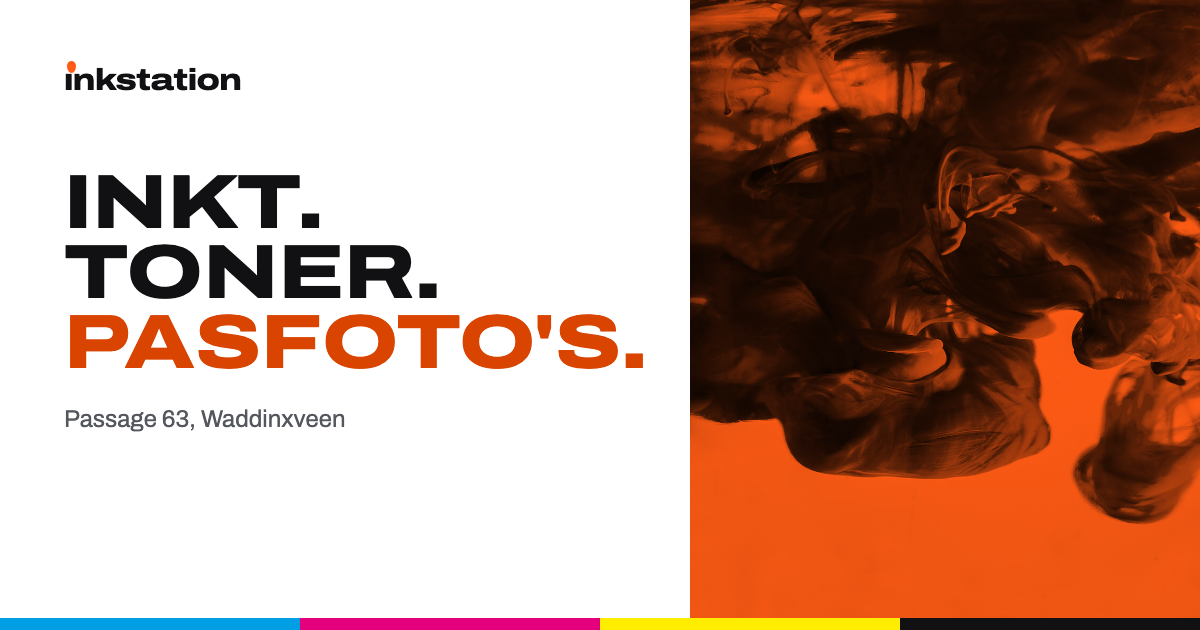
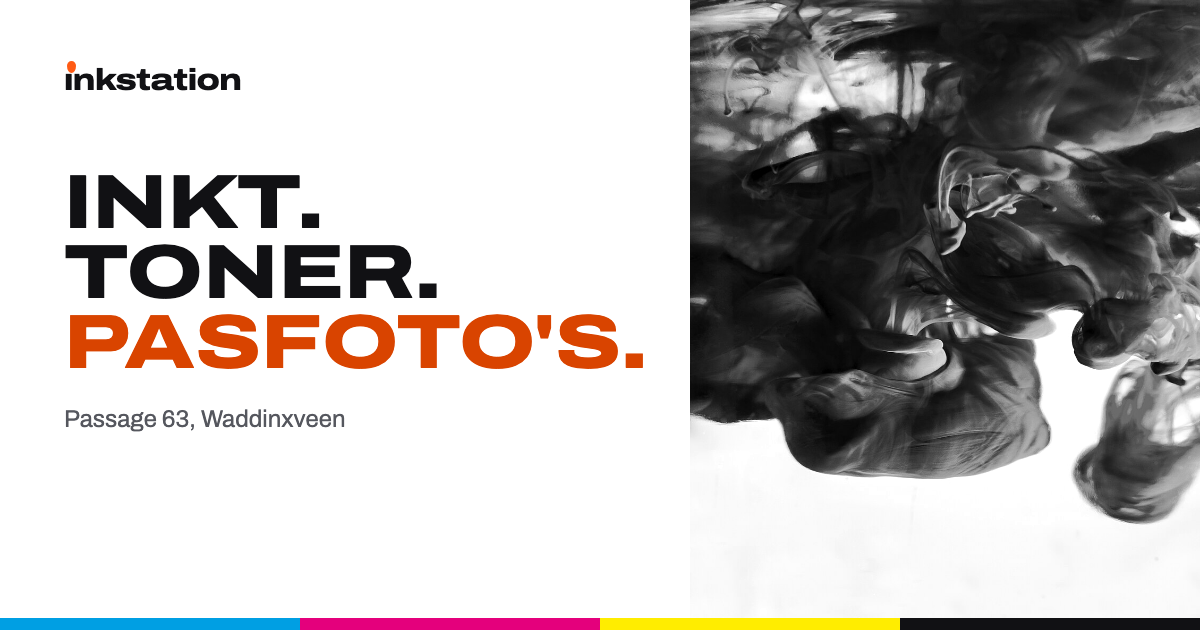
Inkstation: all photos black and white

diff --git a/inkstation/styles.css b/inkstation/styles.css
@@ -135,20 +135,17 @@ h3 { margin: 0 0 8px; font-size: var(--fs-h3); line-height: 1.2; font-weight: 70
 }
 .hero .lead { margin-bottom: 36px; color: var(--ink-2); }
 
-.hero-panel { position: relative; margin: 0; background: var(--accent); overflow: hidden; }
-/* Accent duotone in one element: the photo is made grey (luminosity over white), then multiplied with the accent.
-   background-blend-mode stays inside the element, so Safari renders it the same as Chrome. */
+.hero-panel { position: relative; margin: 0; background: var(--paper); overflow: hidden; }
+/* Photos are black and white: the colour comes from the type, buttons and blocks, not from tinted photos.
+   A plain filter on a background image (no blend modes) renders the same in Safari and Chrome. */
 .duotone {
   position: absolute; inset: 0;
   background-color: var(--paper);
-  background-image: linear-gradient(var(--accent), var(--accent)), var(--photo);
+  background-image: var(--photo);
   background-size: cover; background-position: center;
-  background-blend-mode: multiply, luminosity;
+  filter: grayscale(1) contrast(1.1);
 }
-/* Camera, wheel and film reel stay black and white: just the photo, made grey with a plain filter (no blend, so Safari-safe) */
-.duotone-camera, .duotone-wheel, .duotone-reel { background-image: var(--photo); background-blend-mode: normal; filter: grayscale(1) contrast(1.1); }
 .duotone-camera { background-position: 50% 45%; }
-#pasfoto .panel-media, #rijbewijs .panel-media, #video .panel-media { background: var(--paper); }
 
 .ticket { position: absolute; left: 32px; right: 32px; bottom: 32px; max-width: 340px; background: var(--paper); padding: 20px 24px; display: grid; gap: 6px; }
 .status { font-weight: 700; display: flex; align-items: flex-start; gap: 10px; }
@@ -192,7 +189,7 @@ h2.panel-title { font-size: clamp(28px, calc(97cqi / var(--em, 7.6)), 132px); ma
   text-underline-offset: -.14em; text-decoration-skip-ink: none;
 }
 .panel .lead { color: var(--ink-2); margin-bottom: 36px; }
-.panel-media { position: relative; margin: 0; background: var(--accent); overflow: hidden; }
+.panel-media { position: relative; margin: 0; background: var(--paper); overflow: hidden; }
 .duotone-wheel { background-position: 35% 50%; }
 .duotone-reel { background-position: 50% 50%; }
 #inkt .duotone { background-position: 24% 50%; }

diff --git a/inkstation/index.html b/inkstation/index.html
@@ -27,7 +27,7 @@
     document.documentElement.setAttribute("data-kleur", k || "oranje");
   })();
 </script>
-<link rel="stylesheet" href="styles.css?v=22">
+<link rel="stylesheet" href="styles.css?v=23">
 <script src="script.js?v=15" defer></script>
 <!-- Structured data so Google can show address, phone and opening hours. Hours as listed on Google Maps (7 Nov 2026). -->
 <script type="application/ld+json">
@@ -59,7 +59,7 @@
   - Car_interior_during_the_daytime_(Unsplash).jpg, Pietro De Grandi, CC0
   - HP_Inkjet_Black_Print_Cartridge_21.jpg, MarcoTangerino, public domain
   - Super-8-mm-film-on-a-spool-02.jpg, CEphoto, Uwe Aranas, CC BY-SA 3.0
-  Hero and camera photos get a magenta duotone via background-blend-mode (works in Safari, unlike mix-blend-mode on a filtered img); product photos sit on white tiles. No edited files.
+  All photos are shown black and white with a CSS grayscale filter. No edited files.
 -->
 </head>
 <body>
